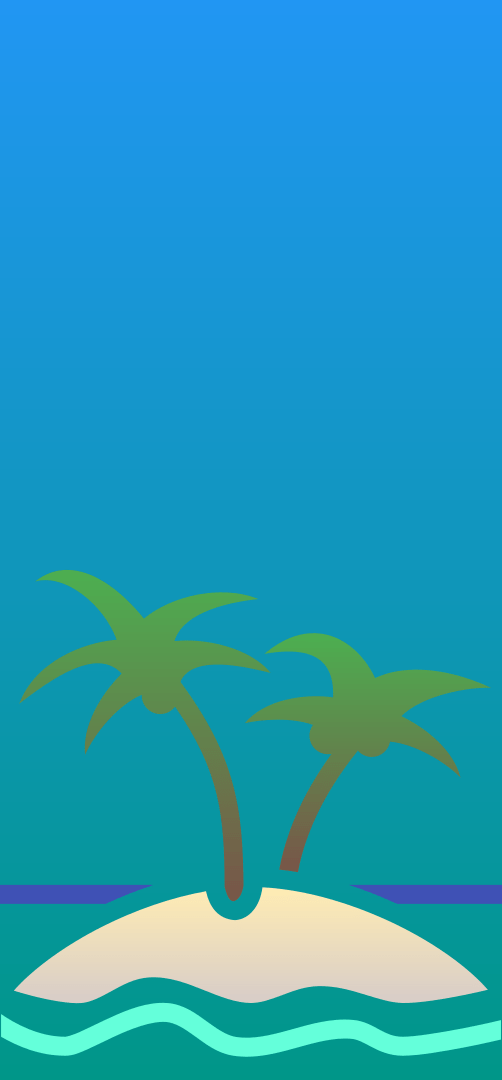
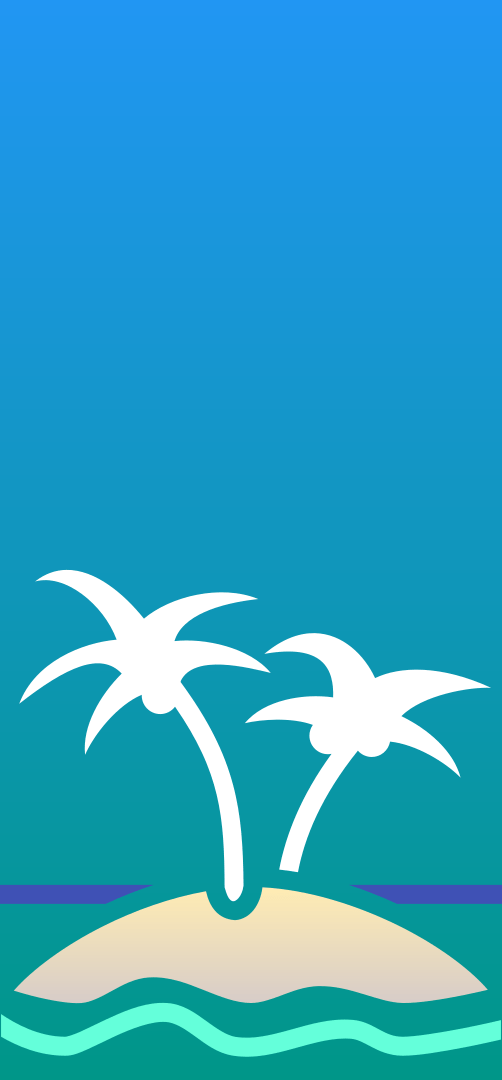
🏳🌈

Changed region(s): [[0.0598, 0.5194, 0.9562, 0.8556], [0.0299, 0.6417, 0.0598, 0.6722]]

diff --git a/src/main/java/com/unascribed/fabrication/client/FabricationConfigScreen.java b/src/main/java/com/unascribed/fabrication/client/FabricationConfigScreen.java
@@ -1,5 +1,6 @@
 package com.unascribed.fabrication.client;
 
+import java.util.Calendar;
 import java.util.List;
 import java.util.Locale;
 import java.util.Map;
@@ -83,6 +84,9 @@ public class FabricationConfigScreen extends Screen {
 			.build();
 	
 	private static final Identifier BG = new Identifier("fabrication", "bg.png");
+	private static final Identifier PRIDETEX = new Identifier("fabrication", "pride.png");
+	
+	private static final boolean PRIDE = Calendar.getInstance().get(Calendar.MONTH) == Calendar.JUNE || Boolean.getBoolean("com.unascribed.fabrication.everyMonthIsPrideMonth");
 	
 	private static long serverLaunchId = -1;
 	
@@ -250,9 +254,6 @@ public class FabricationConfigScreen extends Screen {
 	
 	private void drawBackground(MatrixStack matrices, int mouseX, int mouseY, float delta) {
 		fillGradient(matrices, -width, 0, width*2, height, 0xFF2196F3, 0xFF009688);
-		client.getTextureManager().bindTexture(BG);
-		GlStateManager.texParameter(GL11.GL_TEXTURE_2D, GL11.GL_TEXTURE_MAG_FILTER, GL11.GL_LINEAR);
-		GlStateManager.texParameter(GL11.GL_TEXTURE_2D, GL11.GL_TEXTURE_MIN_FILTER, GL11.GL_LINEAR);
 		float ratio = 502/1080f;
 		
 		float w = height*ratio;
@@ -265,11 +266,43 @@ public class FabricationConfigScreen extends Screen {
 		GlStateManager.enableBlend();
 		RenderSystem.defaultBlendFunc();
 		float time = selectedSection == null ? 10-selectTime : prevSelectedSection == null ? selectTime : 0;
-		float a = sCurve5(time/10f);
-		GlStateManager.color4f(1, 1, 1, 0.3f+(a*0.7f));
+		GlStateManager.color4f(1, 1, 1, 1);
 		
 		GlStateManager.disableCull();
 		BufferBuilder bb = Tessellator.getInstance().getBuffer();
+
+		float top = (570/1080f)*height;
+		float bottom = (901/1080f)*height;
+		if (PRIDE) {
+			client.getTextureManager().bindTexture(PRIDETEX);
+			int flags = 21;
+			int flag = Math.abs(hashCode())%flags;
+			float minU = (flag/(float)flags)+(0.5f/flags);
+			float maxU = (flag/(float)flags)+(0.75f/flags);
+			bb.begin(GL11.GL_QUADS, VertexFormats.POSITION_TEXTURE);
+			bb.vertex(mat, brk, top, 0).texture(minU, 0).next();
+			bb.vertex(mat, brk2, top, 0).texture(maxU, 0).next();
+			bb.vertex(mat, brk2, bottom, 0).texture(maxU, 1).next();
+			bb.vertex(mat, brk, bottom, 0).texture(minU, 1).next();
+			bb.end();
+			BufferRenderer.draw(bb);
+		} else {
+			GlStateManager.shadeModel(GL11.GL_SMOOTH);
+			GlStateManager.disableTexture();
+			bb.begin(GL11.GL_QUADS, VertexFormats.POSITION_COLOR);
+			bb.vertex(mat, brk, top, 0).color(0.298f, 0.686f, 0.314f, 1).next();
+			bb.vertex(mat, brk2, top, 0).color(0.298f, 0.686f, 0.314f, 1).next();
+			bb.vertex(mat, brk2, bottom, 0).color(0.475f, 0.333f, 0.282f, 1).next();
+			bb.vertex(mat, brk, bottom, 0).color(0.475f, 0.333f, 0.282f, 1).next();
+			bb.end();
+			BufferRenderer.draw(bb);
+			GlStateManager.enableTexture();
+			GlStateManager.shadeModel(GL11.GL_FLAT);
+		}
+		
+		client.getTextureManager().bindTexture(BG);
+		GlStateManager.texParameter(GL11.GL_TEXTURE_2D, GL11.GL_TEXTURE_MAG_FILTER, GL11.GL_LINEAR);
+		GlStateManager.texParameter(GL11.GL_TEXTURE_2D, GL11.GL_TEXTURE_MIN_FILTER, GL11.GL_LINEAR);
 		bb.begin(GL11.GL_QUADS, VertexFormats.POSITION_TEXTURE);
 		bb.vertex(mat, border, 0, 0).texture(0, 0).next();
 		bb.vertex(mat, brk, 0, 0).texture(0, 0).next();
@@ -287,8 +320,13 @@ public class FabricationConfigScreen extends Screen {
 		bb.vertex(mat, brk2, height, 0).texture(1, 1).next();
 		
 		bb.end();
-		RenderSystem.enableAlphaTest();
 		BufferRenderer.draw(bb);
+		
+		float a = 1-(0.3f+(sCurve5(time/10f)*0.7f));
+		if (a > 0) {
+			int ai = ((int)(a*255))<<24;
+			fillGradient(matrices, -width, 0, width*2, height, 0x2196F3|ai, 0x009688|ai);
+		}
 	}
 
 	private void drawForeground(MatrixStack matrices, int mouseX, int mouseY, float delta) {
